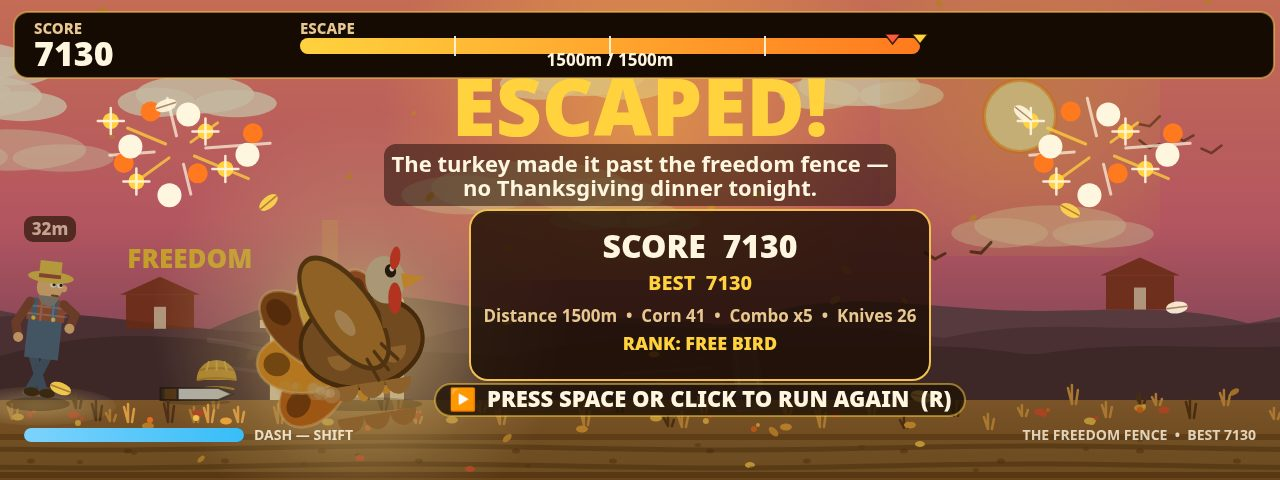
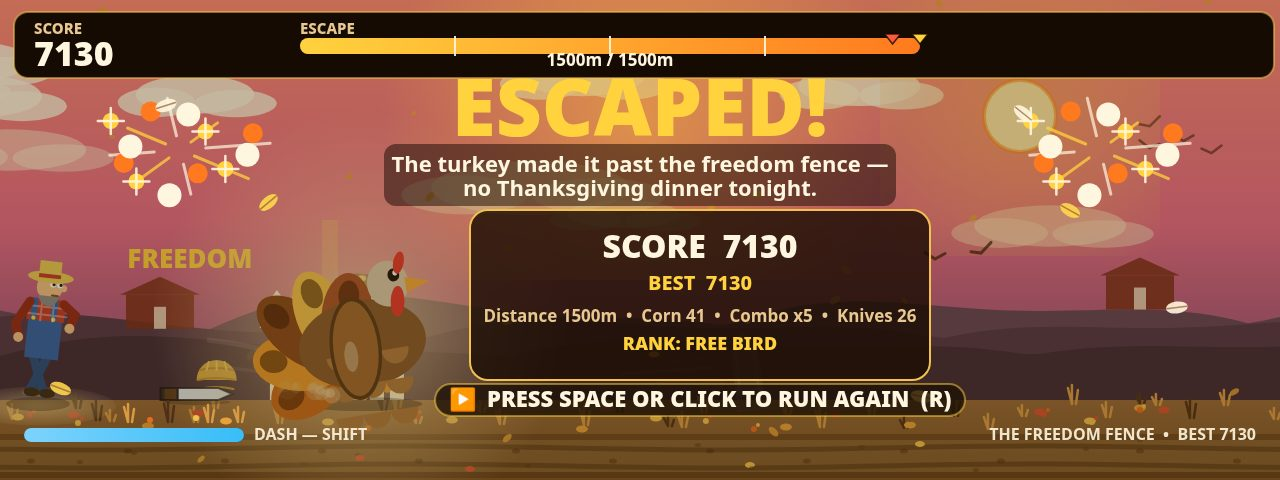
R2 HUD+stage: hide end-screen farmer gap pill, forward knife lines on cover, HUD footer 14->16px
- drawFarmer: gap pill hidden on SCREEN_OVER too (end frame showed a
  meaningless 32m pill; title already hid its 24m the same way)
- drawKnife: optional aim param draws 3 short faint forward speed
  lines along the knife-to-turkey line for far knives only (cover:
  ~250px away); the danger graze keeps the true horizontal trail
- drawHud: DASH hint + stage/BEST footer 14->16px, alpha 0.8/0.85->0.9
  for half-size readability
- Riverbank evaluated, not swapped: play 500/500 stage 0 in 40s;
  danger stage-2 keeps 16px graze + oven-under only in seeds 62
  (combo x0, loses COMBO pill) and 171; 289 rejected on sight
  (banner collides with turkey + shield ring). shots.json untouched
- Re-shot all 4 (2-start byte-identical); contact sheet half-size OK;
  main.ts twice byte-identical; dossier text 159,363/163,840 bytes

diff --git a/game/src/render.js b/game/src/render.js
@@ -788,7 +788,7 @@ export function createRenderer(canvas) {
   // without the fade the frame always carries one lonely blade way
   // out on the right, flying at the barn instead of at the bird.
   // alpha is 1 until the knife is 8 m past the turkey and 0 by 28 m.
-  function drawKnife(sx, y, t, alpha) {
+  function drawKnife(sx, y, t, alpha, aim) {
     const a = alpha === undefined ? 1 : alpha;
     const cy = FIELD.groundY - y;
     const spin = t * 9;
@@ -827,6 +827,22 @@ export function createRenderer(canvas) {
     context.moveTo(sx - 38, cy + 10);
     context.lineTo(sx - 100, cy + 16);
     context.stroke();
+    // Forward speed lines, only when aim is given (far knife on the
+    // play screen): short faint streaks ahead of the blade along the
+    // knife-to-turkey line, so the throw reads as aimed at the bird
+    // instead of a blade lying at the farmer's feet.
+    if (aim !== undefined) {
+      const ca = Math.cos(aim), sa = Math.sin(aim);
+      for (const [po, len, al, lw] of [[-9, 52, 0.32, 2], [0, 68, 0.5, 3], [9, 52, 0.32, 2]]) {
+        const x0 = sx + ca * 36 - sa * po, y0 = cy + sa * 36 + ca * po;
+        context.strokeStyle = `rgba(255,255,255,${al})`;
+        context.lineWidth = lw;
+        context.beginPath();
+        context.moveTo(x0, y0);
+        context.lineTo(x0 + ca * len, y0 + sa * len);
+        context.stroke();
+      }
+    }
     // The blade itself, ~35% longer and wider than before, and
     // ~35% thicker again in the finals details pass (half-height
     // 8 -> 11). Length, position and spin are untouched.
@@ -1267,10 +1283,11 @@ export function createRenderer(canvas) {
     const windup = f.windup > 0;
     const close = gap < 16;
     const surging = f.surge > 0;
-    // No gap label on the title: the race has not started, so the
-    // metres mean nothing there and the pill is clutter at the
-    // left edge. It stays on every screen where the chase is live.
-    if (gap > 22 && screen !== SCREEN_TITLE) {
+    // No gap label on the title or the over screen: the race has
+    // not started / is over, so the metres mean nothing there and
+    // the pill is clutter at the left edge. It stays on every
+    // screen where the chase is live.
+    if (gap > 22 && screen !== SCREEN_TITLE && screen !== SCREEN_OVER) {
       const label = `${Math.round(gap)}m`;
       // The label never hugs the left edge: when the farmer is
       // clamped to the edge his label used to start at x=14, which
@@ -1710,11 +1727,11 @@ export function createRenderer(canvas) {
     sg.addColorStop(0, '#7dd3fc');
     sg.addColorStop(1, '#38bdf8');
     pill(24, 428, Math.max(10, 220 * state.player.stamina / TURKEY.staminaMax), 14, 7, sg);
-    text('DASH — SHIFT', 254, 440, 14, 'rgba(255,246,224,0.85)', 'left', '700');
+    text('DASH — SHIFT', 254, 440, 16, 'rgba(255,246,224,0.9)', 'left', '700');
     if (state.player.shield) text('🛡 SHIELD', 24, 412, 16, '#fff', 'left', '800');
     if (state.player.pumpkin > 0) text(`★ GOLDEN ${Math.ceil(state.player.pumpkin)}s`, 24, 392, 18, '#ffd23e', 'left', '900');
     // Stage name, small, bottom right.
-    text(`${stage.name}  •  BEST ${Math.max(best, Math.floor(state.score))}`, 1256, 440, 14, 'rgba(255,246,224,0.8)', 'right', '700');
+    text(`${stage.name}  •  BEST ${Math.max(best, Math.floor(state.score))}`, 1256, 440, 16, 'rgba(255,246,224,0.9)', 'right', '700');
     // Flash message, centre.
     if (state.flashTimer > 0 && state.flash) {
       const a = clamp(state.flashTimer, 0, 1);
@@ -2075,8 +2092,19 @@ export function createRenderer(canvas) {
         // no ghosts. Knives at or right of the panel (sx >= 470)
         // keep flying — a flat blade there would land on the panel
         // or the re-run prompt.
+        // A far knife still closing on the play screen gets forward
+        // lines along the knife-to-turkey line (cover: ~250 px away);
+        // a close one (the danger graze) keeps the true trail only.
+        let aim;
+        if (screen === SCREEN_PLAY && ka === 1) {
+          const tdx = TURKEY_X + TURKEY.width / 2 - sx;
+          if (tdx > 120) {
+            const tdy = FIELD.groundY - state.player.y - TURKEY.height / 2 - (FIELD.groundY - e.y);
+            aim = Math.atan2(tdy, tdx);
+          }
+        }
         if (ka > 0 && escaped && sx < 470) drawDroppedKnife(sx);
-        else if (ka > 0) drawKnife(sx, e.y, t, ka);
+        else if (ka > 0) drawKnife(sx, e.y, t, ka, aim);
       }
       if (passed) context.restore();
     }
